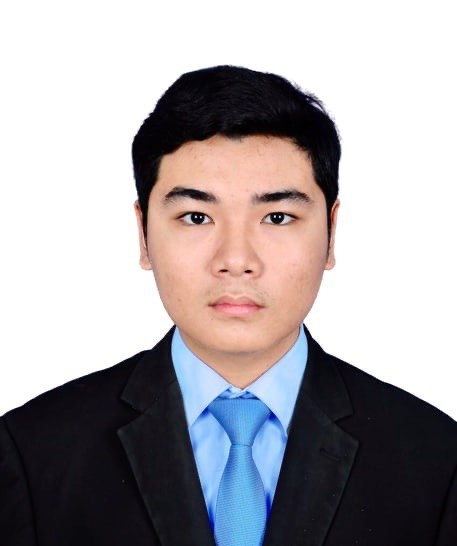
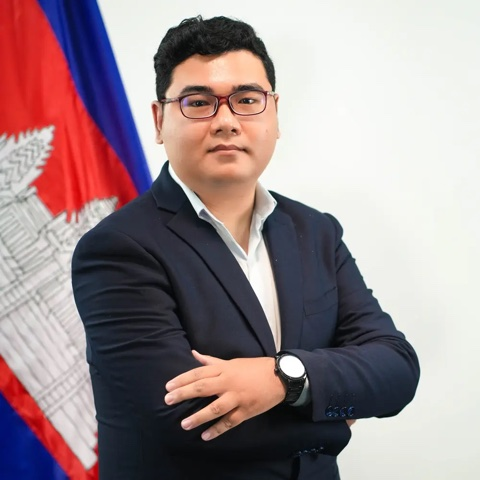
Update profile photo, intro hook and theme script
- Replace the homepage portrait with the new photo in a round frame
- Rewrite the intro to focus on taking ideas to working systems,
  without naming the employer (EN + KM)
- Render the theme script via ThemeScript so React no longer warns
  when <head> is mounted on the client

diff --git a/src/content/profile.ts b/src/content/profile.ts
@@ -8,8 +8,8 @@ export const profile: Profile = {
   location: { en: 'Phnom Penh, Cambodia', km: 'ភ្នំពេញ ប្រទេសកម្ពុជា' },
   timezone: 'UTC+7',
   lead: {
-    en: 'I build full-stack applications and reliable delivery workflows with Java Spring Boot, React and cloud technologies, currently at the Digital Economy and Business Committee.',
-    km: 'ខ្ញុំបង្កើតកម្មវិធី Full-stack និងដំណើរការដាក់ឱ្យប្រើប្រាស់ដែលអាចទុកចិត្តបានដោយប្រើ Java Spring Boot, React និងបច្ចេកវិទ្យា cloud នៅគណៈកម្មាធិការសេដ្ឋកិច្ច និងធុរកិច្ចឌីជីថល។',
+    en: 'I turn ideas into real, working systems — designing the architecture, building secure backend services with Java Spring Boot, crafting React interfaces and automating delivery to the cloud.',
+    km: 'ខ្ញុំប្រែក្លាយគំនិតឱ្យទៅជាប្រព័ន្ធដែលដំណើរការពិតប្រាកដ — ចាប់ពីការរចនាស្ថាបត្យកម្ម ការបង្កើតសេវាកម្ម backend ដែលមានសុវត្ថិភាពជាមួយ Java Spring Boot ការបង្កើតចំណុចប្រទាក់ React រហូតដល់ការដាក់ឱ្យប្រើប្រាស់ដោយស្វ័យប្រវត្តិលើ cloud។',
   },
   summary: {
     en: 'Full-stack developer focused on secure, scalable applications. I work on system architecture and flows, backend services with Spring Boot and WebFlux, and refactoring application logic for maintainability.',
@@ -33,8 +33,8 @@ export const profile: Profile = {
   },
   photo: {
     src: '/profile.jpg',
-    width: 546,
-    height: 457,
+    width: 480,
+    height: 480,
     alt: { en: 'Portrait of Rotha Dapravith', km: 'រូបថតរបស់ Rotha Dapravith' },
   },
   languages: [

diff --git a/src/app/[locale]/layout.tsx b/src/app/[locale]/layout.tsx
@@ -9,7 +9,7 @@ import { ChatAssistant } from '@/components/chat-assistant';
 import { PhnomPenhTime } from '@/components/phnom-penh-time';
 import { ViewCounter } from '@/components/ViewCounter';
 import { LanguageSwitch, SiteNav } from '@/components/site-nav';
-import { ThemeToggle, themeScript } from '@/components/theme-toggle';
+import { ThemeScript, ThemeToggle } from '@/components/theme-toggle';
 import { content } from '@/content';
 import { htmlLang, isLocale, localizePath, locales, type Locale } from '@/i18n/config';
 import { getDictionary } from '@/i18n/dictionaries';
@@ -104,7 +104,7 @@ export default async function LocaleLayout({
       className={`${plexSans.variable} ${plexMono.variable} ${sourceSerif.variable} ${kantumruy.variable}`}
     >
       <head>
-        <script dangerouslySetInnerHTML={{ __html: themeScript }} />
+        <ThemeScript />
       </head>
       {/* Browser extensions may add attributes to body before React hydrates. */}
       <body className="flex min-h-dvh flex-col" suppressHydrationWarning>

diff --git a/src/components/theme-toggle.tsx b/src/components/theme-toggle.tsx
@@ -40,3 +40,16 @@ export function ThemeToggle({ toLight, toDark }: { toLight: string; toDark: stri
 }
 
 export const themeScript = `(function(){try{var t=localStorage.getItem('theme');var d=t?t==='dark':window.matchMedia('(prefers-color-scheme: dark)').matches;if(d)document.documentElement.classList.add('dark')}catch(e){}})()`;
+
+// Runs before paint from the server HTML. If React ever mounts <head> on the
+// client (e.g. recovering from an error), it would warn about an inert <script>;
+// a non-JS type there marks it as a data block. Hydration keeps the server type.
+export function ThemeScript() {
+  return (
+    <script
+      type={typeof window === 'undefined' ? undefined : 'text/plain'}
+      suppressHydrationWarning
+      dangerouslySetInnerHTML={{ __html: themeScript }}
+    />
+  );
+}

diff --git a/src/app/[locale]/page.tsx b/src/app/[locale]/page.tsx
@@ -40,7 +40,7 @@ export default async function HomePage({ params }: Props) {
               height={profile.photo.height}
               sizes="(min-width: 1024px) 13rem, (min-width: 768px) 11rem, 7rem"
               preload
-              className="aspect-[4/5] w-full rounded-sm object-cover object-[50%_20%]"
+              className="aspect-square w-full rounded-full border border-rule object-cover"
             />
           </div>
 
